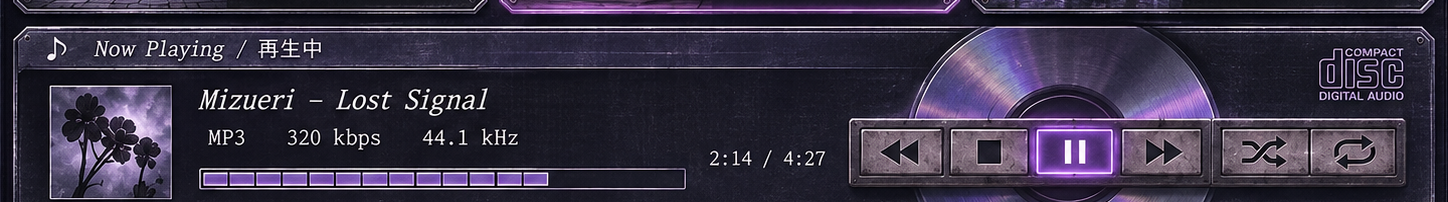
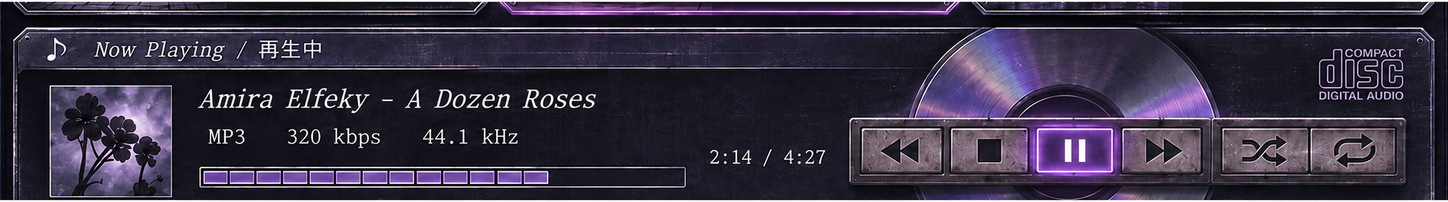
fix(profile): update song title contact and passive panels

diff --git a/source/test_clickable_panels.py b/source/test_clickable_panels.py
@@ -47,11 +47,26 @@ class ClickablePanelTests(unittest.TestCase):
         readme = (ROOT / "README.md").read_text()
         self.assertNotRegex(readme, r"<\s*details\b")
         self.assertNotRegex(readme, r"<\s*summary\b")
-        self.assertNotRegex(readme, r'<a\b[^>]*>\s*<img src="assets/10-player\.png"')
         ids = set(re.findall(r'\bid=["\']([^"\']+)["\']', readme))
         fragments = re.findall(r'href=["\']#([^"\']+)["\']', readme)
         self.assertTrue(fragments)
         self.assertFalse(set(fragments) - ids, f"dangling fragments: {set(fragments) - ids}")
+
+    def test_profile_panels_are_not_navigation_and_keep_anchor_ids(self):
+        readme = (ROOT / "README.md").read_text()
+        for asset in ("01-hero.png", "02-menu.png", "03-whoami.png", "clickable/footer-1.png"):
+            self.assertNotRegex(readme, rf'<a\b[^>]*>\s*<img src="assets/{re.escape(asset)}"')
+        self.assertRegex(readme, r'<(?:div|[^>]+)\bid=["\']top["\']')
+        self.assertRegex(readme, r'<(?:div|[^>]+)\bid=["\']profile["\']')
+        self.assertIn('href="https://x.com/4t_ritch"', readme)
+        self.assertNotIn("Dot_Choco", readme)
+        self.assertIn("Amira Elfeky - A Dozen Roses", readme)
+
+    def test_generated_player_matches_normalized_source(self):
+        generated = Image.open(ROOT / "assets/10-player.png").convert("RGB")
+        approved = Image.open(ROOT / "source/player-amira-elfeky.png").convert("RGB")
+        self.assertEqual(approved.size, (1448, 202))
+        self.assertIsNone(ImageChops.difference(generated, approved).getbbox())
 
     def test_expected_destinations_and_no_visible_text_navigation(self):
         readme = (ROOT / "README.md").read_text()
@@ -60,7 +75,7 @@ class ClickablePanelTests(unittest.TestCase):
             "https://github.com/4t-ritch/JDotParser",
             "https://github.com/4t-ritch/DCTI",
             "https://github.com/4t-ritch/lnx-df",
-            "https://x.com/Dot_Choco",
+            "https://x.com/4t_ritch",
             "https://www.rust-lang.org/",
             "https://isocpp.org/",
             "https://www.typescriptlang.org/",

diff --git a/source/extract_panels.py b/source/extract_panels.py
@@ -1,6 +1,7 @@
 from pathlib import Path
 from PIL import Image
 import json
+import shutil
 ROOT = Path(__file__).resolve().parent.parent
 source = Image.open(ROOT/'source/approved-artwork-updated.png').convert('RGB')
 bounds = json.loads((ROOT/'source/crop-bounds.json').read_text())
@@ -35,4 +36,5 @@ regions = {
 }
 for name, region in regions.items():
     source.crop(region).save(clickable / f'{name}.png')
+shutil.copyfile(ROOT / 'source/player-amira-elfeky.png', ROOT / 'assets/10-player.png')
 print('Rebuilt', len(bounds) + len(regions) + 1, 'complete assets')

diff --git a/README.md b/README.md
@@ -1,11 +1,11 @@
 <!-- 4t-ritch // PS2 profile: complete independent panels, no chopped text or borders. -->
 <div align="center">
-<div><a id="top" href="#profile" title="4t-ritch — profile"><img src="assets/01-hero.png" width="100%" align="top" alt="4t-ritch — profile and system menu"></a></div>
-<div><a href="#profile" title="Profile navigation"><img src="assets/02-menu.png" width="19.86564%" align="top" alt="Menu — profile, projects, tech stack, and other"></a><a id="profile" href="https://github.com/4t-ritch" title="GitHub profile"><img src="assets/03-whoami.png" width="40.97287%" align="top" alt="Whoami — 4t-ritch profile"></a><a href="https://github.com/4t-ritch/lnx-df" title="System dotfiles"><img src="assets/04-system.png" width="39.04149%" align="top" alt="System status — Arch Linux and Hyprland"></a></div>
+<div id="top"><img src="assets/01-hero.png" width="100%" align="top" alt="4t-ritch — profile and system menu"></div>
+<div><img src="assets/02-menu.png" width="19.86564%" align="top" alt="Menu — profile, projects, tech stack, and other"><span id="profile"><img src="assets/03-whoami.png" width="40.97287%" align="top" alt="Whoami — 4t-ritch profile"></span><a href="https://github.com/4t-ritch/lnx-df" title="System dotfiles"><img src="assets/04-system.png" width="39.04149%" align="top" alt="System status — Arch Linux and Hyprland"></a></div>
 <div><img src="assets/clickable/tech-heading.png" width="100%" align="top" alt="Tech stack"></div>
 <div><a id="tech" href="https://www.rust-lang.org/" title="Rust"><img src="assets/clickable/tech-01.png" width="13.37%" align="top" alt="Rust"></a><a href="https://isocpp.org/" title="C++"><img src="assets/clickable/tech-02.png" width="9.51%" align="top" alt="C++"></a><a href="https://www.typescriptlang.org/" title="TypeScript"><img src="assets/clickable/tech-03.png" width="10.50%" align="top" alt="TypeScript"></a><a href="https://svelte.dev/" title="Svelte"><img src="assets/clickable/tech-04.png" width="9.01%" align="top" alt="Svelte"></a><a href="https://go.dev/" title="Go"><img src="assets/clickable/tech-05.png" width="8.94%" align="top" alt="Go"></a><a href="https://www.postgresql.org/" title="PostgreSQL"><img src="assets/clickable/tech-06.png" width="10.37%" align="top" alt="PostgreSQL"></a><a href="https://www.docker.com/" title="Docker"><img src="assets/clickable/tech-07.png" width="8.94%" align="top" alt="Docker"></a><a href="https://archlinux.org/" title="Linux / Arch Linux"><img src="assets/clickable/tech-08.png" width="9.00%" align="top" alt="Linux"></a><a href="https://git-scm.com/" title="Git"><img src="assets/clickable/tech-09.png" width="9.07%" align="top" alt="Git"></a><a href="https://github.com/4t-ritch/lnx-df" title="CLI / TUI"><img src="assets/clickable/tech-10.png" width="10.34%" align="top" alt="CLI / TUI"></a></div>
 <div><img src="assets/clickable/projects-heading.png" width="100%" align="top" alt="Featured projects"></div>
 <div><a id="projects" href="https://okaimono.dev/" title="Okaimono"><img src="assets/clickable/project-1.png" width="33.91%" align="top" alt="Okaimono — anime collection manager"></a><a href="https://github.com/4t-ritch/JDotParser" title="JDotParser"><img src="assets/clickable/project-2.png" width="33.08%" align="top" alt="JDotParser project"></a><a href="https://github.com/4t-ritch/DCTI" title="DCTI"><img src="assets/clickable/project-3.png" width="32.80%" align="top" alt="DCTI project"></a></div>
-<div><img src="assets/10-player.png" width="100%" align="top" alt="Decorative PS2 audio player"></div>
-<div><img src="assets/clickable/footer-1.png" width="45.16%" align="top" alt="Terminal prompt"><a href="#projects" title="Projects"><img src="assets/clickable/footer-2.png" width="24.98%" align="top" alt="Projects"></a><a id="contact" href="https://x.com/Dot_Choco" title="X / @Dot_Choco"><img src="assets/clickable/footer-3.png" width="14.58%" align="top" alt="Contact — X / @Dot_Choco"></a><a href="#top" title="Back to top"><img src="assets/clickable/footer-4.png" width="14.99%" align="top" alt="Back"></a></div>
+<div><img src="assets/10-player.png" width="100%" align="top" alt="Decorative PS2 audio player — Amira Elfeky - A Dozen Roses"></div>
+<div><img src="assets/clickable/footer-1.png" width="45.16%" align="top" alt="Terminal prompt"><a href="#projects" title="Projects"><img src="assets/clickable/footer-2.png" width="24.98%" align="top" alt="Projects"></a><a id="contact" href="https://x.com/4t_ritch" title="X / @4t_ritch"><img src="assets/clickable/footer-3.png" width="14.58%" align="top" alt="Contact — X / @4t_ritch"></a><a href="#top" title="Back to top"><img src="assets/clickable/footer-4.png" width="14.99%" align="top" alt="Back"></a></div>
 </div>

diff --git a/odd/tasks/profile-song-contact.md b/odd/tasks/profile-song-contact.md
@@ -1,0 +1,26 @@
+# Profile song and contact
+
+## Objective
+Set displayed song to Amira Elfeky - A Dozen Roses, update Contact to https://x.com/4t_ritch, and remove anchors from hero, menu, WHOAMI and terminal prompt. Keep artwork and player decorative.
+
+## Tasks
+- [x] T1 Update player title asset and reproducible generator; update README links and noninteractive panels.
+- [x] T2 Verify required title, links, preserved layout, tests and regenerated assets.
+
+## Routing and checks
+Delegated direct for multi-file work; exact edits limited to requested regions. Tests first for link behavior, visual check for song title. RDD globally off. Forecast under 250 authored lines; ask-on-risk. Commit locally on feature branch after checks, no push authorized. Run unittest discovery, generator, diff check and visual readback.
+
+## Progress
+The supplied generated player image included white letterboxing. Cropped only that padding (source rows 208–514) and resampled the remaining art to the original 1448×202 canvas. The normalized source is `source/player-amira-elfeky.png`, and the generator copies it reproducibly to `assets/10-player.png`.
+
+README now leaves hero, menu, WHOAMI, terminal prompt, and player decorative; `top` and `profile` IDs remain for footer anchors. Contact now links to `https://x.com/4t_ritch`. System, tech, project, and footer action links remain intact.
+
+Verification: `PYTHONDONTWRITEBYTECODE=1 python -m unittest discover -s source -p 'test_*.py'` passed (5 tests); `python source/extract_panels.py` passed; `git diff --check` passed. The test asserts the generated player is byte-pixel-identical to the normalized source, and regeneration changed only the intended player asset. Normalized player was visually inspected: title is correct and no white letterbox bars remain. A rendered desktop/mobile README screenshot check was not performed in this worker session; no remote or authenticated rendering was used. No commit was made by the worker.
+
+## Verified outcome
+- [x] T1 Updated player artwork to exact requested title, reproducible source/player-amira-elfeky.png; Contact now https://x.com/4t_ritch; hero/menu/WHOAMI and terminal have no explicit links.
+- [x] T2 Writer and independent verifier: 5 unit tests passed, diff check passed, generator reproduces all 33 PNGs byte-identically. Exact title visually confirmed. Local desktop1440/mobile390 previews show no new layout regressions; actual GitHub renderer not inspected.
+Risk assessment unassessable due untracked files; high-tier independent verification performed. RDD remains off. User explicitly authorized branch closure and push upon completion. No meaningful automated RED for raster typography; link tests observed RED before implementation per worker.
+
+## Delivery
+One coherent work unit, under250 authored lines. Integrate into existing main after normal remote fetch; push origin main:main, no force. Preserve unrelated work. No player interaction added.
